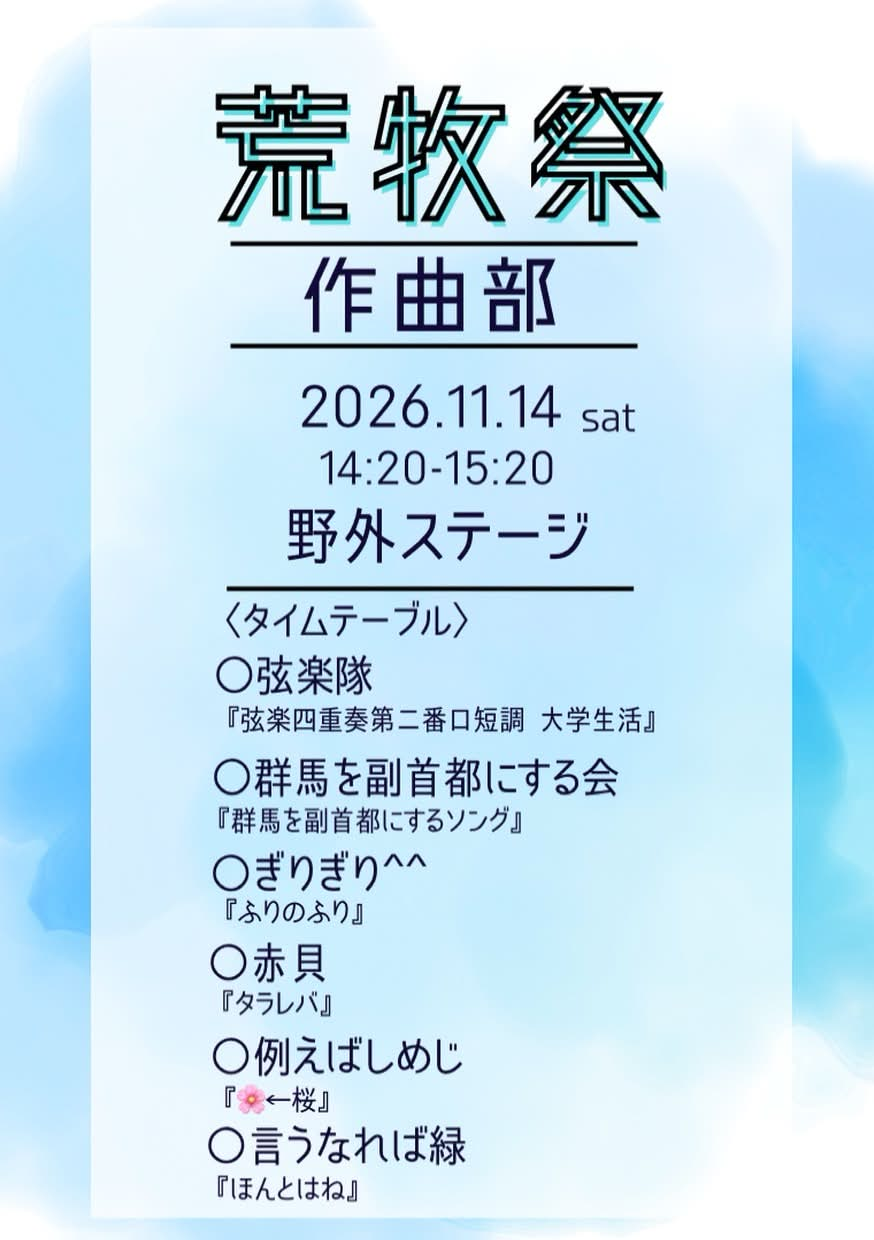
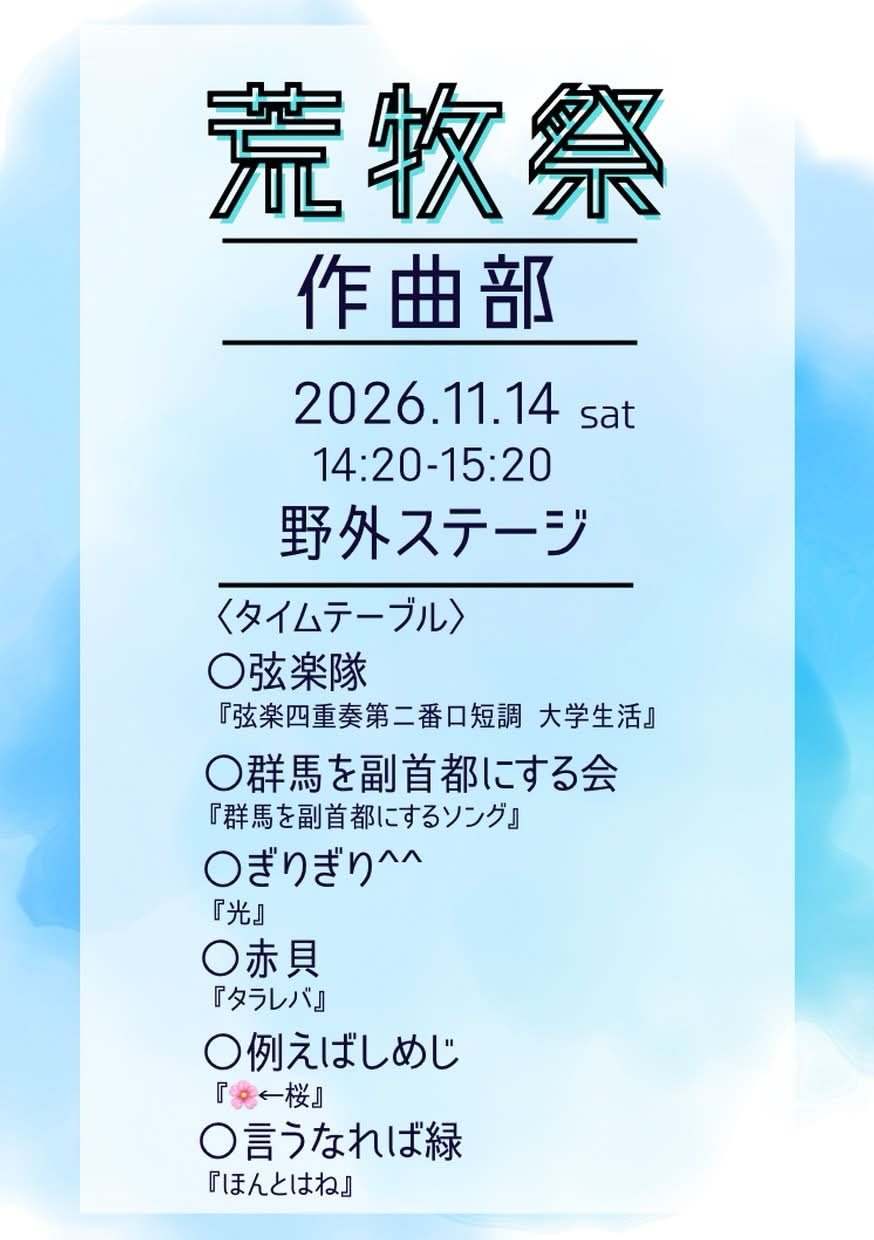
荒牧祭 野外ステージのポスターを差し替え、ぎりぎり^^の曲名を「光」に修正

diff --git a/src/data/aramaki2026.ts b/src/data/aramaki2026.ts
@@ -37,7 +37,7 @@ export const aramaki2026 = {
     acts: [
       { name: "弦楽隊", song: "弦楽四重奏第二番ロ短調 大学生活" },
       { name: "群馬を副首都にする会", song: "群馬を副首都にするソング" },
-      { name: "ぎりぎり^^", song: "ふりのふり" },
+      { name: "ぎりぎり^^", song: "光" },
       // 「タラレバ」は2026年アルバム「炭酸予報」の収録曲で、歌詞ページがあります。
       { name: "赤貝", song: "タラレバ", lyricPath: "/TansanYohou/tarareba/" },
       { name: "例えばしめじ", song: "🌸←桜" },
